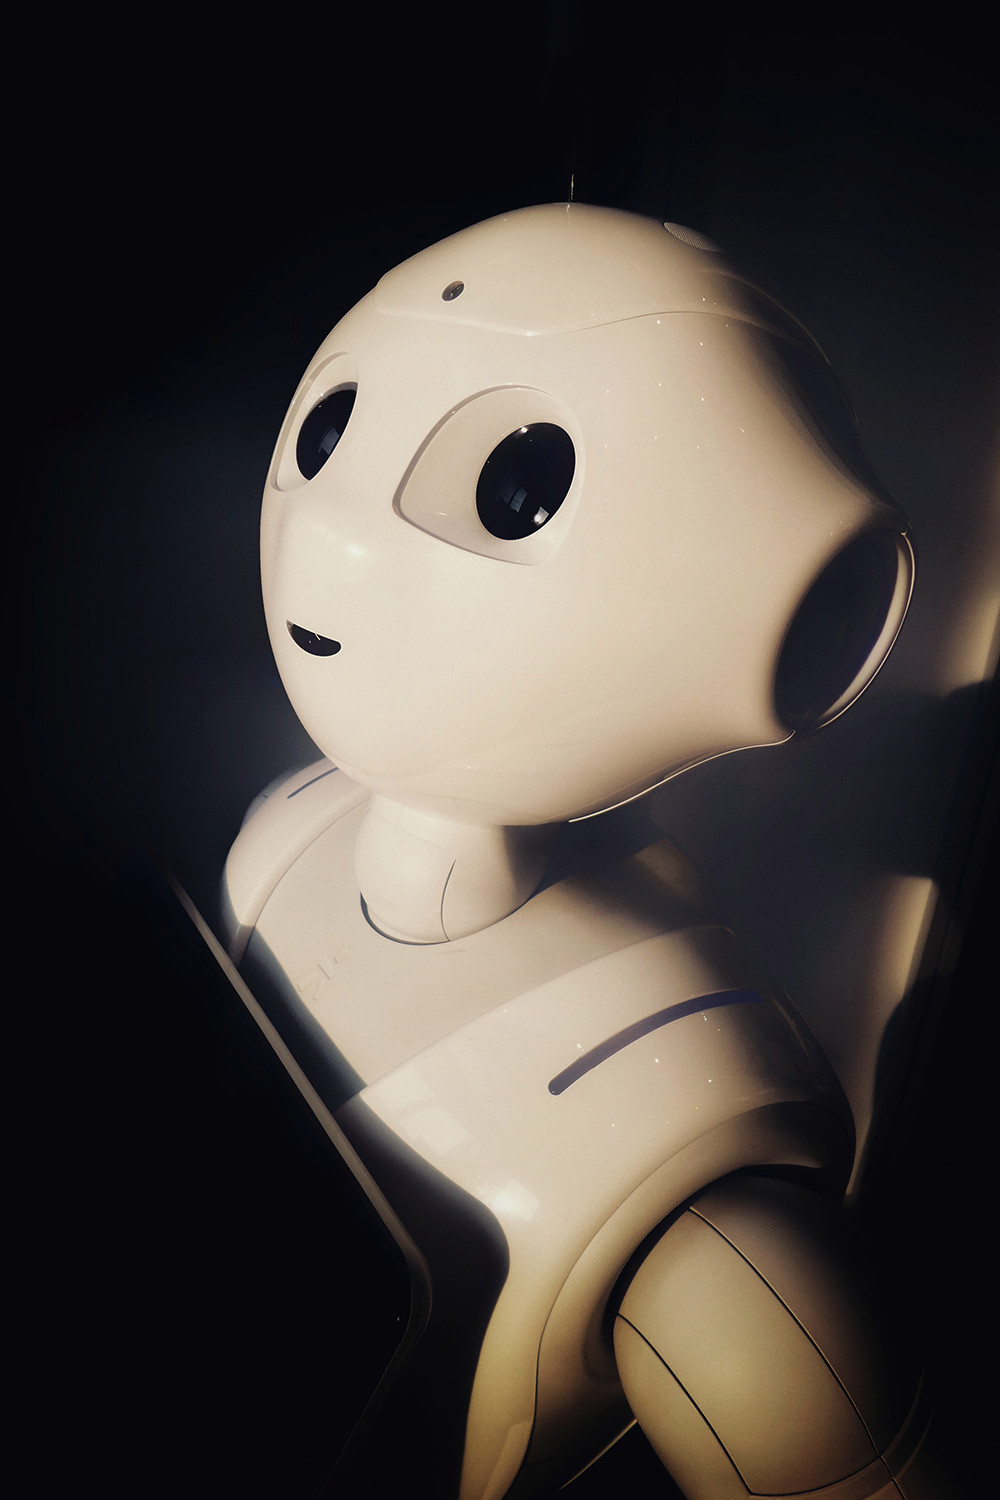
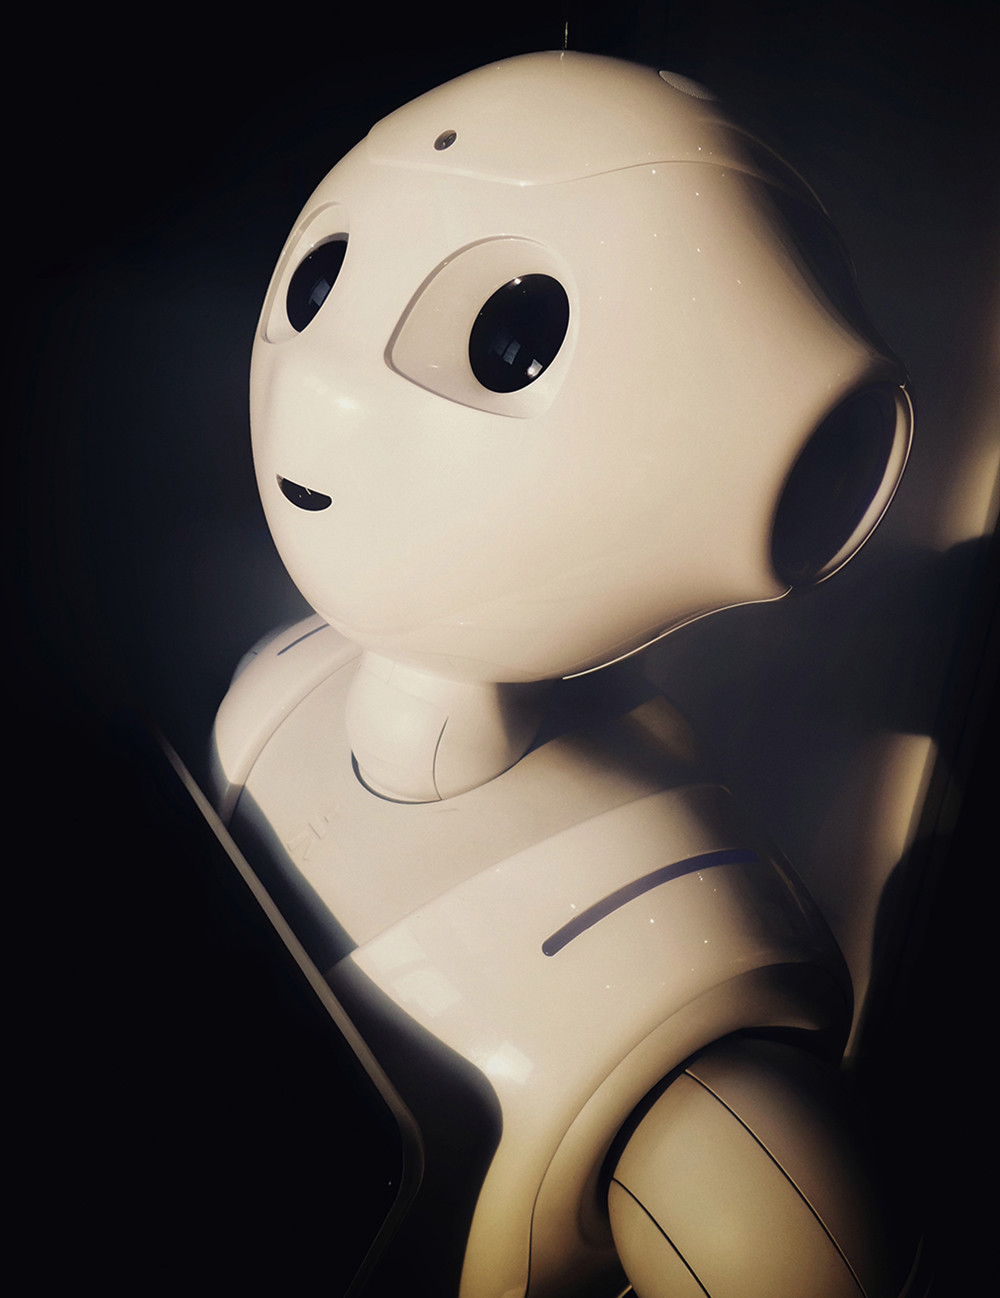
hi

diff --git a/resources/views/blog/article/1.blade.php b/resources/views/blog/article/1.blade.php
@@ -450,14 +450,28 @@ width: auto;
 
 @slot('content')
 <div class="container">
+  <amp-img alt="{{ $title }}" class="mobile layer-black" layout="responsive" srcset="
+  {{ asset('assets/img/blog/'.$id. '/start/70.webp') }} 70w,
+  {{ asset('assets/img/blog/'.$id. '/start/456.webp') }} 456w,
+  {{ asset('assets/img/blog/'.$id. '/start/709.webp') }} 709w,
+  {{ asset('assets/img/blog/'.$id. '/start/887.webp') }} 887w,
+  {{ asset('assets/img/blog/'.$id. '/start/1000.webp') }} 1000w" src="{{ asset('assets/img/blog/'.$id. '/start/1000.webp') }}" height="1298" width="1000">
+  <div fallback>
     <amp-img alt="{{ $title }}" class="mobile layer-black" layout="responsive" srcset="
-    {{ asset('assets/img/blog/'.$id. '/start/200.jpg') }} 200w,
-    {{ asset('assets/img/blog/'.$id. '/start/459.jpg') }} 459w,
-    {{ asset('assets/img/blog/'.$id. '/start/648.jpg') }} 648w,
-    {{ asset('assets/img/blog/'.$id. '/start/805.jpg') }} 805w,
-    {{ asset('assets/img/blog/'.$id. '/start/932.jpg') }} 932w,
-    {{ asset('assets/img/blog/'.$id. '/start/1000.jpg') }} 1000w" src="{{ asset('assets/img/blog/'.$id. '/start/1000.jpg') }}" height="1500" width="1000">
+    {{ asset('assets/img/blog/'.$id. '/start/70.jpg') }} 70w,
+    {{ asset('assets/img/blog/'.$id. '/start/456.jpg') }} 456w,
+    {{ asset('assets/img/blog/'.$id. '/start/709.jpg') }} 709w,
+    {{ asset('assets/img/blog/'.$id. '/start/887.jpg') }} 887w,
+    {{ asset('assets/img/blog/'.$id. '/start/1000.jpg') }} 1000w" src="{{ asset('assets/img/blog/'.$id. '/start/1000.jpg') }}" height="1298" width="1000">
     </amp-img>
+    </div>
+    <amp-img alt="{{ $title }}" class="desktop layer-black" layout="responsive" srcset="
+    {{ asset('assets/img/blog/'.$id. '/social/200.webp') }} 200w,
+    {{ asset('assets/img/blog/'.$id. '/social/490.webp') }} 490w,
+    {{ asset('assets/img/blog/'.$id. '/social/690.webp') }} 690w,
+    {{ asset('assets/img/blog/'.$id. '/social/888.webp') }} 888w,
+    {{ asset('assets/img/blog/'.$id. '/social/1024.webp') }} 1024w" src="{{ asset('assets/img/blog/'.$id. '/social/1024.webp') }}" height="512" width="1024">
+    <div fallback>
     <amp-img alt="{{ $title }}" class="desktop layer-black" layout="responsive" srcset="
     {{ asset('assets/img/blog/'.$id. '/social/200.jpg') }} 200w,
     {{ asset('assets/img/blog/'.$id. '/social/490.jpg') }} 490w,
@@ -465,6 +479,7 @@ width: auto;
     {{ asset('assets/img/blog/'.$id. '/social/888.jpg') }} 888w,
     {{ asset('assets/img/blog/'.$id. '/social/1024.jpg') }} 1024w" src="{{ asset('assets/img/blog/'.$id. '/social/1024.jpg') }}" height="512" width="1024">
     </amp-img>
+    </div>
     <div class="text-container">
     <h1 class="header-text">{{ $title }}</h1>
     </div>
@@ -489,6 +504,15 @@ width: auto;
                 <p class="text-sp-lb m20">More Information</p>
                 <h1 class="text-social-lb">About the Author.</h1>
                 <div class="author m12">
+                  <amp-img alt="{{ $author }}" class="author-avatar" layout="fill" srcset="
+                  {{ asset('assets/img/author/'. $author_img .'/200.jpg') }} 200w,
+        {{ asset('assets/img/author/'. $author_img .'/356.webp') }} 356w,
+        {{ asset('assets/img/author/'. $author_img .'/480.webp') }} 480w,
+        {{ asset('assets/img/author/'. $author_img .'/586.webp') }} 586w,
+        {{ asset('assets/img/author/'. $author_img .'/685.webp') }} 685w,
+        {{ asset('assets/img/author/'. $author_img .'/770.webp') }} 770w" src="{{ asset('assets/img/author/'. $author_img .'/770.webp') }}">
+                  </amp-img>
+                  <div fallback>
                     <amp-img alt="{{ $author }}" class="author-avatar" layout="fill" srcset="{{ asset('assets/img/author/'. $author_img .'/200.jpg') }} 200w,
           {{ asset('assets/img/author/'. $author_img .'/356.jpg') }} 356w,
           {{ asset('assets/img/author/'. $author_img .'/480.jpg') }} 480w,
@@ -496,6 +520,7 @@ width: auto;
           {{ asset('assets/img/author/'. $author_img .'/685.jpg') }} 685w,
           {{ asset('assets/img/author/'. $author_img .'/770.jpg') }} 770w" src="{{ asset('assets/img/author/'. $author_img .'/770.jpg') }}">
                     </amp-img>
+                  </div>
                     <div class="author-text">
                         <p class="p-author">{{ $author }}</p>
                         <p class="p-date">{{ $published . '  ·  ' . $mins_read . ' min read' }}</p>
@@ -515,6 +540,15 @@ width: auto;
   <div class="white-bordered">
 <div class="container-content">
     <div class="author">
+      <amp-img alt="{{ $author }}" class="author-avatar" layout="fill" srcset="
+      {{ asset('assets/img/author/'. $author_img .'/200.jpg') }} 200w,
+{{ asset('assets/img/author/'. $author_img .'/356.webp') }} 356w,
+{{ asset('assets/img/author/'. $author_img .'/480.webp') }} 480w,
+{{ asset('assets/img/author/'. $author_img .'/586.webp') }} 586w,
+{{ asset('assets/img/author/'. $author_img .'/685.webp') }} 685w,
+{{ asset('assets/img/author/'. $author_img .'/770.webp') }} 770w" src="{{ asset('assets/img/author/'. $author_img .'/770.webp') }}">
+      </amp-img>
+      <div fallback>
       <amp-img alt="{{ $author }}" class="author-avatar" layout="fill" srcset="{{ asset('assets/img/author/'. $author_img .'/200.jpg') }} 200w,
 {{ asset('assets/img/author/'. $author_img .'/356.jpg') }} 356w,
 {{ asset('assets/img/author/'. $author_img .'/480.jpg') }} 480w,
@@ -522,6 +556,7 @@ width: auto;
 {{ asset('assets/img/author/'. $author_img .'/685.jpg') }} 685w,
 {{ asset('assets/img/author/'. $author_img .'/770.jpg') }} 770w" src="{{ asset('assets/img/author/'. $author_img .'/770.jpg') }}">
       </amp-img>
+    </div>
         <div class="author-text">
             <p class="p-author">{{ $author }}</p>
             <p class="p-date">{{ $published . '  ·  ' . $mins_read . ' min read' }}</p>

diff --git a/resources/views/layouts/website.blade.php b/resources/views/layouts/website.blade.php
@@ -13,6 +13,7 @@
       <link rel="alternate" hreflang="{{ $localeCode }}"
             href="{{ LaravelLocalization::getLocalizedURL($localeCode, null, [], true) }}">
     @endforeach
+    <link href="https://fonts.googleapis.com/css?family=Roboto:400,900&display=swap" rel="stylesheet">
     <link href="https://fonts.googleapis.com/icon?family=Material+Icons"
       rel="stylesheet">
     <meta name="viewport" content="width=device-width,minimum-scale=1,initial-scale=1">
